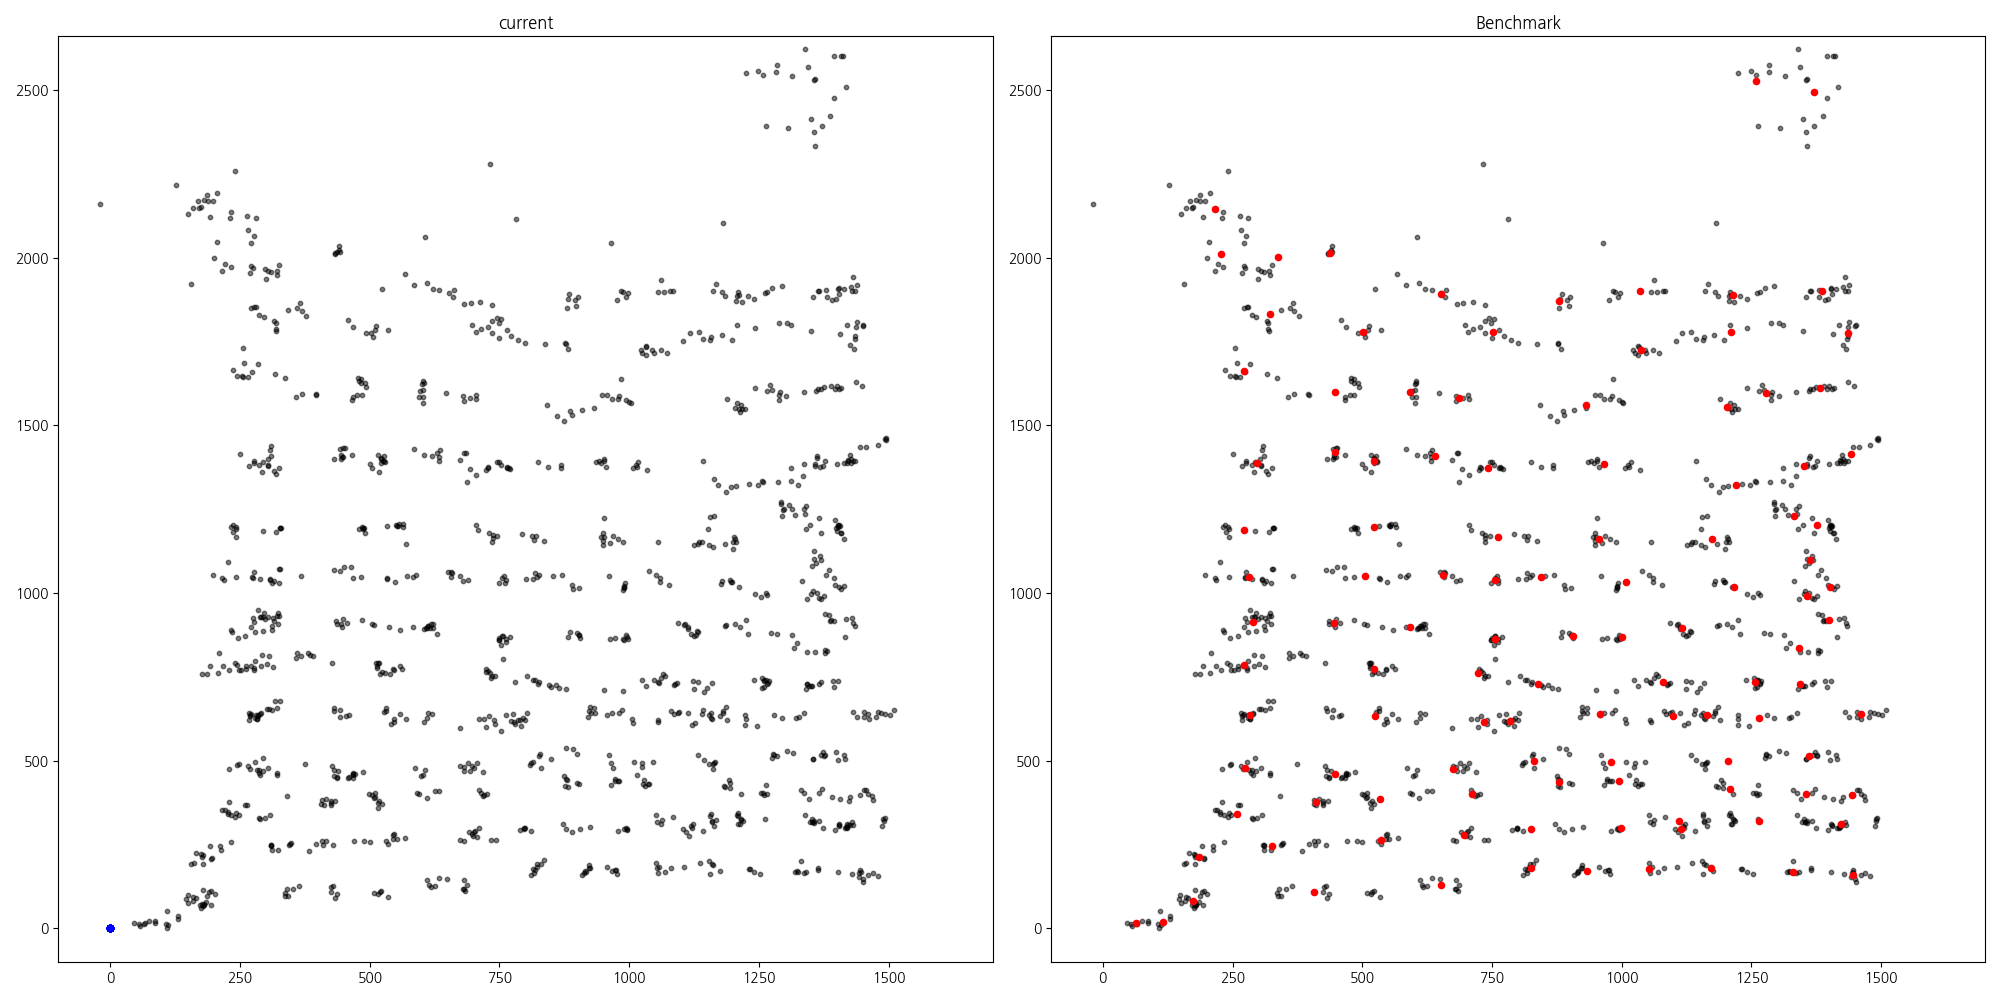
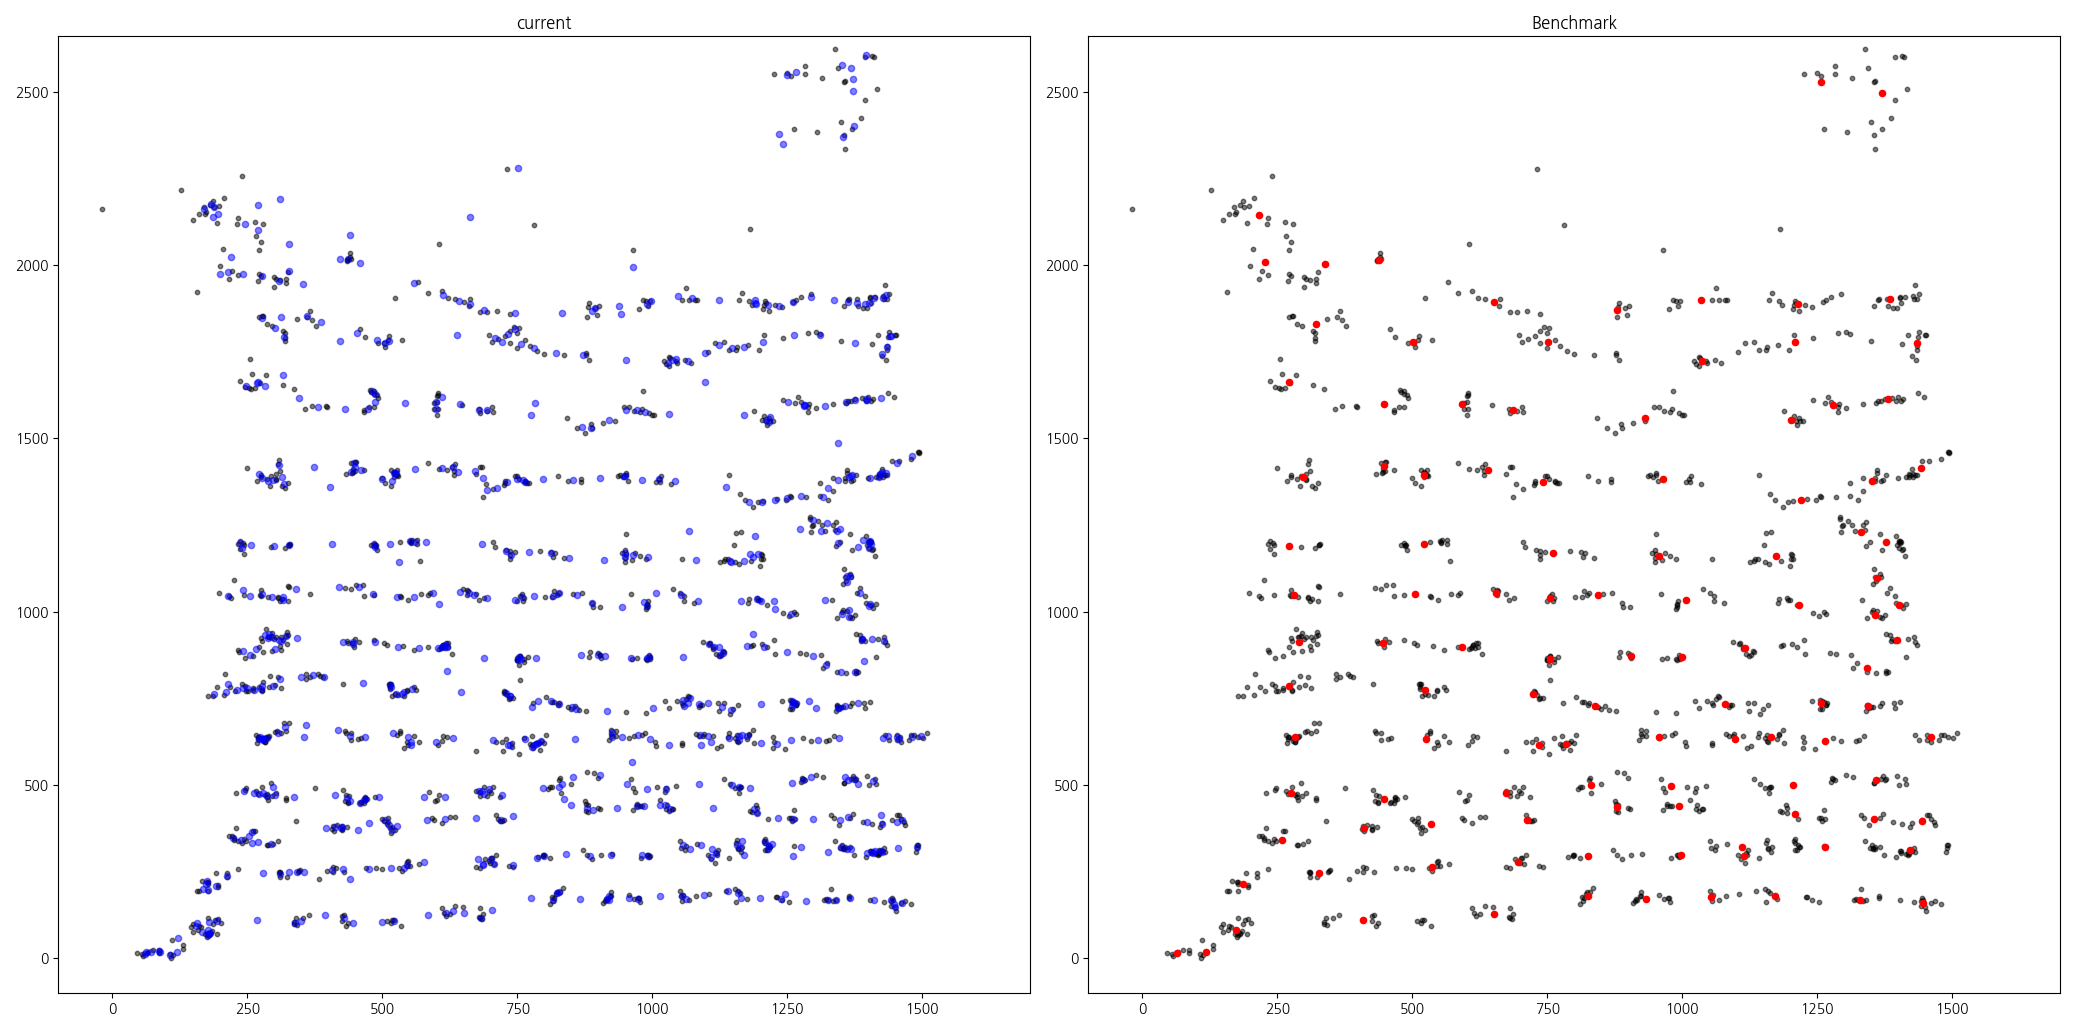
Update iVT until discard

diff --git a/utils/iVT.py b/utils/iVT.py
@@ -10,44 +10,112 @@ Notation:
 """
 
 from utils.data import RawFixation
+import scipy
+import numpy as np
+import env
+import params
+from collections import defaultdict
+from utils.visual import show_line_plot
+
+
+def get_xs(obj: list):
+    return np.array([i.x for i in obj])
+
+
+def get_ys(obj: list):
+    return np.array([i.y for i in obj])
 
 
 def gap_fill_in(rps):
-    # TODO: Gap fill in 구현
+    # TBD: Gap fill in 구현
     return rps
 
 
 def noise_reduction(rps):
-    # TODO: noise_reduction 구현
+    xs = get_xs(rps)
+    ys = get_ys(rps)
+
+    # 방법 1: avg
+    window_size = 3
+    window = np.ones(window_size)/window_size
+    xs_new = scipy.signal.convolve(xs, window, mode="same")
+    ys_new = scipy.signal.convolve(ys, window, mode="same")
+    for rp, x, y in zip(rps, xs_new, ys_new):
+        rp.x = x
+        rp.y = y
     return rps
 
 
 def calculate_velocity(rps):
-    # TODO: calculate_velocity 구현
+    xs = get_xs(rps)
+    ys = get_ys(rps)
+
+    delta_x = np.lib.stride_tricks.sliding_window_view(xs, 2, writeable=True)
+    delta_x = delta_x[:, 1] - delta_x[:, 0]
+    delta_y = np.lib.stride_tricks.sliding_window_view(ys, 2, writeable=True)
+    delta_y = delta_y[:, 1] - delta_y[:, 0]
+
+    # NOTE: 그런데, 여기서 속력이 아니라 속도를 구한다면..?!
+    speeds = np.abs(delta_y / delta_x)
+    # NA 값 처리
+    speeds = np.append(speeds, [0])
+
+    for rp, speed in zip(rps, speeds):
+        setattr(rp, "speed", speed)
+
+    if env.show_all_plots:
+        show_line_plot(speeds)
     return rps
 
 
 def absolute_threshold(rps):
-    # TODO: absolute_threshold 구현
+    for rp in rps:
+        if rp.speed > params.ivt_threshold:
+            setattr(rp, "label", "saccade")
+        else:
+            setattr(rp, "label", "fixation")
     return rps
 
 
 def merge_adj_fixation(rps):
-    # TODO: merge_adjacent_fixation 구현
+    # Fixation 사이 Max time: 지금은 죄다 33, 34라서 문제임
+    times = np.array([int(i.timestamp) for i in rps])
+    delta_t = np.lib.stride_tricks.sliding_window_view(times, 2, writeable=True)
+    delta_t = delta_t[:, 1] - delta_t[:, 0]
+    fix_group_id = (delta_t > params.max_time_between_fixations).astype(int).cumsum()
+
+    # NA 값 처리
+    fix_group_id = np.append(fix_group_id, fix_group_id[-1])
+    for rp, group_id in zip(rps, fix_group_id):
+        setattr(rp, "fix_group_id", group_id)
     return rps
 
 
 def discard_short_fixation(rps):
-    # TODO: discard_short_fixation 구현
-    return rps
+    # NOTE: 전처리된 rps에서 이제 골라서 duration까지 구하는 것 포함
+    fix_groups = defaultdict(lambda: defaultdict(list))
+    for rp in rps:
+        fix_groups[rp.fix_group_id]["x"].append(rp.x)
+        fix_groups[rp.fix_group_id]["y"].append(rp.y)
+        fix_groups[rp.fix_group_id]["timestamp"].append(int(rp.timestamp))
+
+    rf_inputs = list(map(lambda fix_group: {
+        "x": np.median(fix_group['x']),
+        "y": np.median(fix_group['y']),
+        "timestamp": np.max(fix_group['timestamp']),
+        "duration": np.max(fix_group['timestamp']) - np.min(fix_group['timestamp'])
+    }, fix_groups.values()))
+
+    rfs = [RawFixation(rf_input) for rf_input in rf_inputs]
+    return rfs
 
 
 def rf_to_rp(rp):
     config = {
         "duration": 0,
-        "timestamp": 0,
-        "x": 0,
-        "y": 0
+        "timestamp": rp.timestamp,
+        "x": rp.x,
+        "y": rp.y
     }
     rf = RawFixation(config)
     return rf
@@ -60,15 +128,14 @@ def get_rf(rps):
     :param rps: List<RawGazePoint> Raw Gaze Point
     :return: List<RawFixation> Raw Fixation
     """
-    # TODO: 여기에 RP를 RF로 반환하는 코드 구현하기
-    rps = gap_fill_in(rps)
+    # Gap Fill In: 현재 모든 데이터에서 좌표가 다 있는 상태라서 굳이 구현하지 않아도 될듯
+    # rps = gap_fill_in(rps)
+
     rps = noise_reduction(rps)
     rps = calculate_velocity(rps)
     rps = absolute_threshold(rps)
     rps = merge_adj_fixation(rps)
-    rps = discard_short_fixation(rps)
-
-    rfs = [rf_to_rp(rp) for rp in rps]
+    rfs = discard_short_fixation(rps)
     return rfs
 
 

diff --git a/main_m1.py b/main_m1.py
@@ -3,7 +3,8 @@ from utils.data_handler import DataHandler
 import argparse
 import matplotlib.pyplot as plt
 from utils.visual import set_scale, plot_points
-
+from copy import deepcopy
+import env
 
 parser = argparse.ArgumentParser(
                     prog='SmartVC',
@@ -22,7 +23,7 @@ def compare_points(rp, point_cur, point_bm, resol):
     set_scale(resol, ax)
     plot_points(ax[0], rp)
     plot_points(ax[1], rp)
-    plot_points(ax[0], point_cur, "current", c='blue', s=20, alpha=1)
+    plot_points(ax[0], point_cur, "current", c='blue', s=20, alpha=0.5)
     plot_points(ax[1], point_bm, "Benchmark", c='red', s=20, alpha=1)
     plt.show()
 
@@ -32,7 +33,7 @@ def main():
 
     # Mission 1: iVT Filter
     # Raw gaze Point
-    rp = handler.get_sample_rp()
+    rp = deepcopy(handler.get_sample_rp())
 
     # Raw Fixation: sample
     bm_rf = handler.get_sample_rf()
@@ -47,6 +48,7 @@ def main():
 
 
 if __name__ == '__main__':
+    setattr(env, "show_all_plots", True)
     path_root = os.getcwd()
     handler = DataHandler(path_root, is_sample=True)
     main()

diff --git a/utils/data_handler.py b/utils/data_handler.py
@@ -14,6 +14,10 @@ class DataHandler:
         self.path_data = f"{pr}/data/raw"
         self.meta = dict()
 
+        # Used only for raw data
+        self.num_fixation = 0
+        self.num_saccade = 0
+
         if is_sample:
             with open(f"{pr}/data/sample.json", encoding="utf-8") as f:
                 dat_list = json.load(f)

diff --git a/utils/data.py b/utils/data.py
@@ -23,6 +23,9 @@ class RawGazePoint:
     def __init__(self, raw: dict):
         for k, v in raw.items():
             setattr(self, k, v)
+        self.speed = None
+        self.label = None
+        self.fix_group_id = None
 
     def __str__(self):
         return f"blink{self.blink}_timestamp{self.timestamp}"

diff --git a/utils/visual.py b/utils/visual.py
@@ -17,3 +17,8 @@ def set_scale(resol, ax, pad=100):
         ax_i.set_ylim(0-pad, h+pad)
 
 
+def show_line_plot(vals, title=""):
+    plt.figure()
+    plt.plot(vals)
+    plt.title(title)
+    plt.show()

diff --git a/params.py b/params.py
@@ -1,0 +1,2 @@
+ivt_threshold = 5
+max_time_between_fixations = 33

diff --git a/env.py b/env.py
@@ -1,0 +1,1 @@
+show_all_plots = False

diff --git a/ReadMe.md b/ReadMe.md
@@ -23,4 +23,7 @@ sample.json
 
 # Sample Status
 
+## iVT Filter
 ![사진](/figure/iVT_status.png)
+
+## Line Allocation
